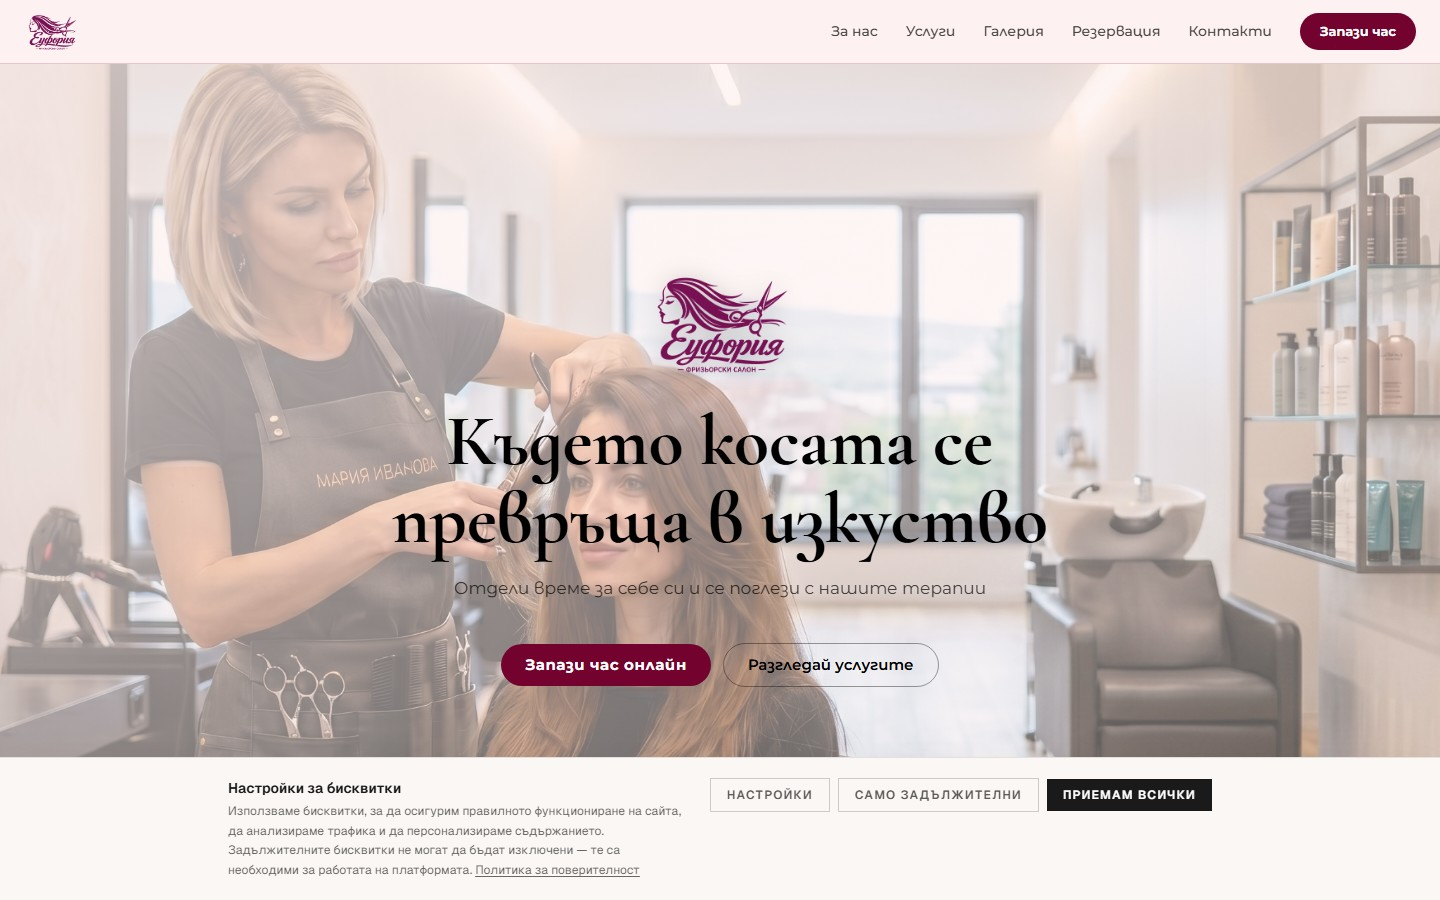
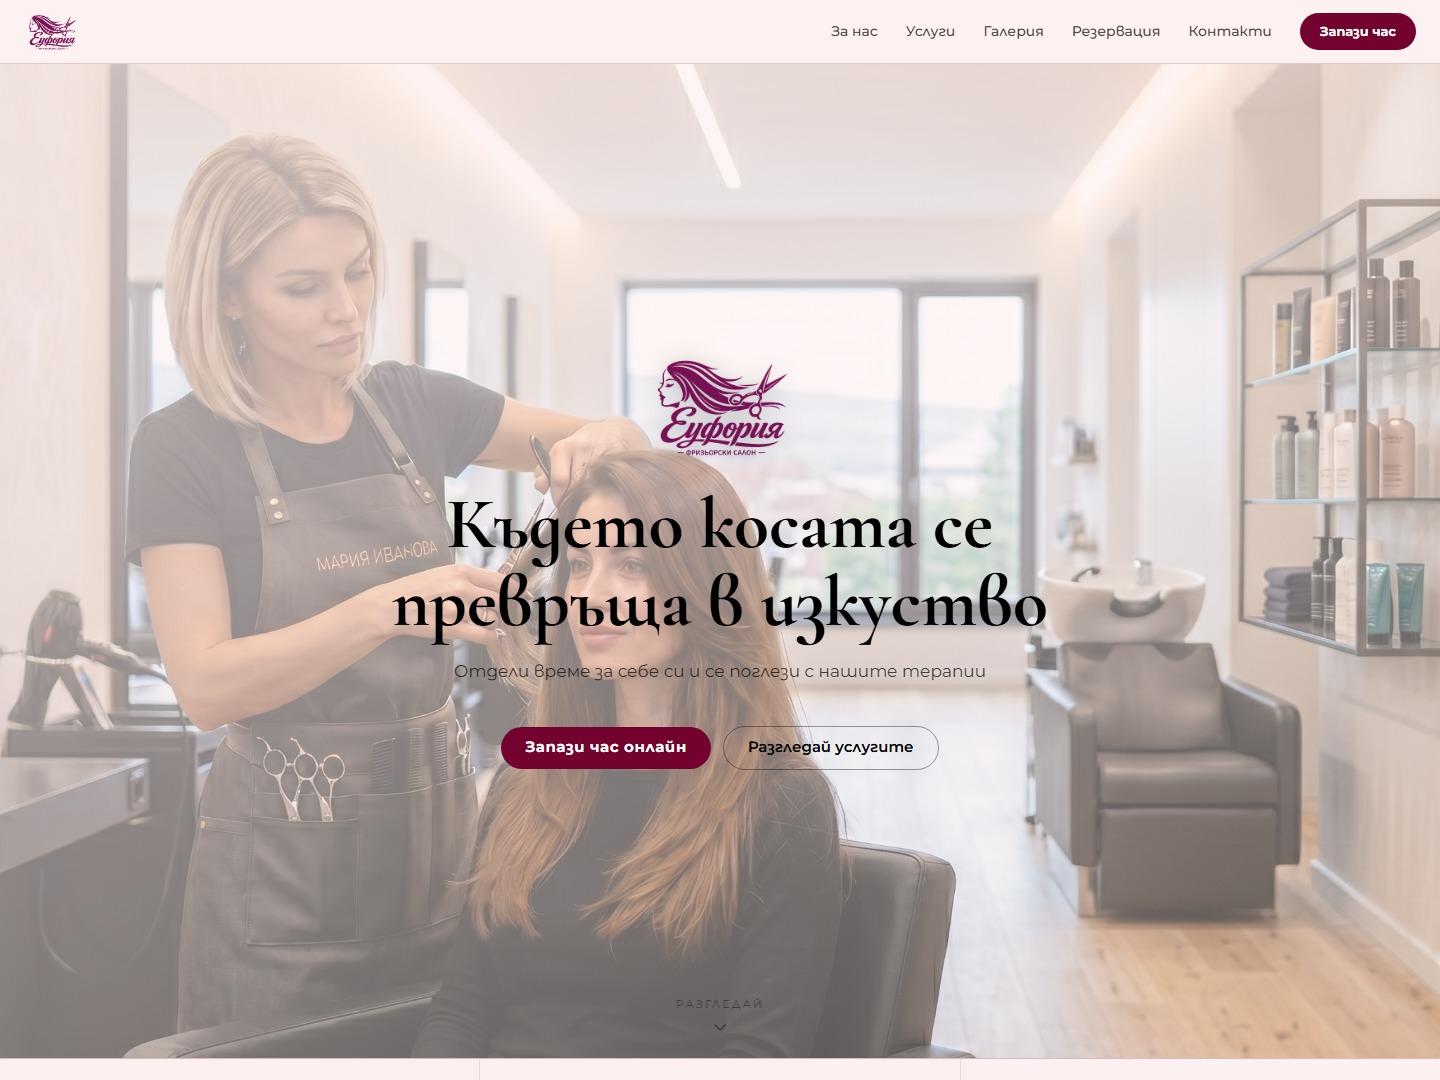
fix: retake screenshots at 4:3 ratio, show full site in carousel cards

diff --git a/components/landing/TemplatesSection.tsx b/components/landing/TemplatesSection.tsx
@@ -48,7 +48,7 @@ function SiteCard({ client, isActive }: { client: typeof CLIENTS[0]; isActive: b
         <img
           src={client.img}
           alt={client.name}
-          style={{ width: "100%", height: "100%", objectFit: "cover", objectPosition: "top", display: "block" }}
+          style={{ width: "100%", height: "100%", objectFit: "cover", objectPosition: "top center", display: "block" }}
         />
       </div>
 
